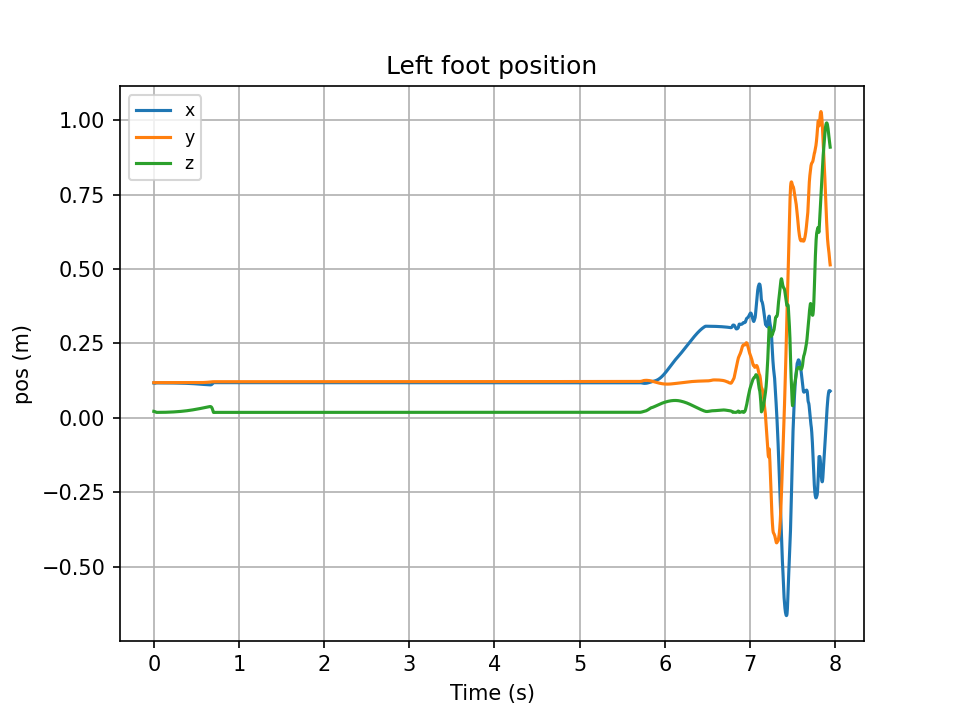
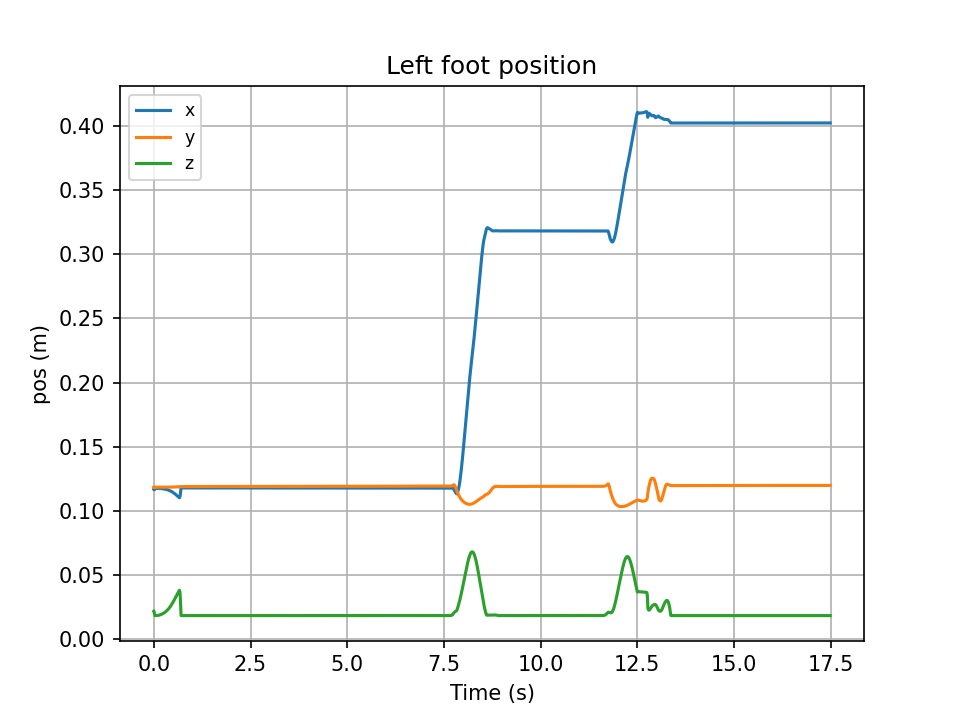
Perturbacion del paper & replan a medias

diff --git a/simulator/pybullet/g1_main.py b/simulator/pybullet/g1_main.py
@@ -1,4 +1,4 @@
-# sim_main.py
+# ===== Imports basicos =====
 import os
 import sys
 import shutil
@@ -7,8 +7,13 @@ import pybullet as pb
 import cv2
 import pinocchio as pin
 import yaml
+import time
 
-# Rutas (para pybind y utilidades del proyecto)
+# ===== Automatización de las pruebas =====
+from pynput.keyboard import Controller
+keyboard = Controller()
+
+# ===== Rutas (para pybind y utilidades del proyecto) =====
 cwd = os.getcwd()
 sys.path.extend([cwd, cwd + "/build/lib"])
 urdf_path = cwd + "/robot_model/g1/g1_29dof_lock_waist.urdf"
@@ -17,12 +22,11 @@ from config.g1.sim.pybullet.ihwbc.pybullet_params import Config
 from util.python_utils import pybullet_util
 import g1_interface_py
 
-# ===== Import del coeficiente de rozamiento
+# ===== Import del coeficiente de rozamiento =====
 yaml_path = cwd + "/config/g1/sim/pybullet/ihwbc/pnc.yaml"
 with open(yaml_path, 'r') as f:
     config_yaml = yaml.safe_load(f)
 mu_ = config_yaml["wbc"]["contact"]["mu"]
-mu_ = 0.5
 
 # ===== Segmentación del main =====
 from g1_files.sensors import get_sensor_data_from_pybullet, compute_base_joint_debug
@@ -40,10 +44,10 @@ from g1_files.forces_to_world import group_tripod
 # ====== Plots (se generan en Ctrl+C) ======
 from g1_files.plots import make_plots
 
-# Aplicación de fuerzas externas transitorias
+# ===== Aplicación de fuerzas externas transitorias =====
 from g1_files.external_forces import apply_external_forces
 
-# Mirar el uso de actuadores
+# ===== Mirar el uso de actuadores =====
 from g1_files.printTorques import printTorques, plotTorques
 flag_torque_limit = False
 
@@ -195,6 +199,8 @@ def main():
         on_exit=finalize  
     )
 
+    test_ = False
+
     # ====== Bucle principal ======
     while count*dt < Config.endSimulation or not Config.endSimulation:
         # --- Depuración: estados "ground truth" del base joint ---
@@ -279,6 +285,14 @@ def main():
         tau_ext = get_tau_ext(dt, model, data, q_pin, v_pin, tau_c, tau_j)
 
         #print(f"{tau_ext[:6]}")
+
+        if not test_ and count*dt > 4:
+            print("Fuerza aplicando")
+            test_ = True
+            print("Iniciando caminata")
+            time.sleep(0.01)
+            keyboard.type('8')
+
 
         # --- Solver de fuerzas en las piernas
         if not count % Config.solver_frequency:

diff --git a/controller/g1_controller/g1_state_machines/contact_transition_start.cpp b/controller/g1_controller/g1_state_machines/contact_transition_start.cpp
@@ -28,6 +28,10 @@ ContactTransitionStart::ContactTransitionStart(
   sp_ = G1StateProvider::GetStateProvider();
 }
 
+bool ContactTransitionStart::ShouldReplan(){
+  return false;
+}
+
 void ContactTransitionStart::FirstVisit() {
   state_machine_start_time_ = sp_->current_time_;
 
@@ -124,9 +128,34 @@ void ContactTransitionStart::FirstVisit() {
           std::to_string(sp_->planning_id_));
       sp_->planning_id_ += 1;
     } else {
-      // TODO: replanning
-      // TODO: consider torso ang vel
+      // TODO: consider torso ang vel. EStamos considerando el replan, que podrá funcionar o no. Ahora vemos
       int transfer_type = dcm_transfer_type::kMidStep;
+      replanning_ = ShouldReplan(); // decide si se debería replanear el paso en función de las fuerzas que estamos viendo
+
+      if (replanning_){
+        
+        Eigen::Vector3d current_dcm_pos = Eigen::Vector3d::Zero();
+        current_dcm_pos << sp_-> dcm_;
+
+        Eigen::Vector3d current_dcm_vel = Eigen::Vector3d::Zero();
+        current_dcm_vel << sp_-> dcm_vel_;
+
+        std::cout << "[Replan] Initializing from current state." << std::endl;
+        std::cout << "  Current DCM Pos: " << current_dcm_pos.transpose() << std::endl;
+        std::cout << "  Current DCM Vel: " << current_dcm_vel.transpose() << std::endl;
+
+        Eigen::Quaterniond torso_quat(robot_->GetLinkIsometry(g1_link::torso_com_link).linear());
+
+        ctrl_arch_->dcm_tm_->Initialize(
+            sp_->current_time_, dcm_transfer_type::kMidStep, torso_quat,
+            current_dcm_pos, current_dcm_vel);
+
+        ctrl_arch_->dcm_tm_->GetDCMPlanner()->SaveSolution(
+            std::to_string(sp_->planning_id_)); // namas guarda el indice del archivo de replaneo que utiliza
+        sp_->planning_id_ += 1;
+      }
+      
+
       // ctrl_arch_->dcm_tm_->Initialize(
       // sp_->current_time_, dcm_transfer_type::kMidStep, init_torso_quat,
       // init_dcm_pos, init_dcm_vel);

diff --git a/planner/locomotion/dcm_planner/dcm_planner.cpp b/planner/locomotion/dcm_planner/dcm_planner.cpp
@@ -458,12 +458,12 @@ Eigen::Vector3d DCMPlanner::GetRefDCM(const double t_global) const {
   if (t <= _GetDoubleSupportEndTime(step_idx)) {
     // use polynomial interpolation
     local_time = t - _GetDoubleSupportStartTime(step_idx);
-    return _GetDCMDoubleSupportPoly(step_idx, local_time);
+    return _GetDCMDoubleSupportPoly(step_idx, local_time) + offset_;
     // return _GetDCMDoubleSupportMinJerk(step_idx, local_time);
   } else {
     // use exponential interpolation
     local_time = t - _GetTimeStepStart(step_idx);
-    return _GetDCMExponential(step_idx, local_time);
+    return _GetDCMExponential(step_idx, local_time) + offset_;
   }
 }
 Eigen::Vector3d DCMPlanner::GetRefDCMVel(const double t_global) const {

diff --git a/planner/locomotion/dcm_planner/dcm_planner.hpp b/planner/locomotion/dcm_planner/dcm_planner.hpp
@@ -107,12 +107,15 @@ public:
 
 protected:
   // setter related variables
-  double mass_ = 40;
+  double mass_ = 35.1;
   double gravity_ = 9.81;
   double z_vrp_ = 0.65;
   double b_ = std::sqrt(z_vrp_ / gravity_);
   double t_start_ = 0.;
   Eigen::Quaterniond init_pelvis_quat_ = Eigen::Quaterniond::Identity();
+
+  double offset_verga = b_ * b_ * 20 /mass_;
+  Eigen::Vector3d offset_ = Eigen::Vector3d(offset_verga, 0.0, 0.0);
 
   // -----------------------------------------------------
   std::vector<FootStep> foot_step_list_;

diff --git a/planner/locomotion/dcm_planner/foot_step.cpp b/planner/locomotion/dcm_planner/foot_step.cpp
@@ -31,7 +31,7 @@ void FootStep::PrintInfo() {
   std::cout << "ori = " << quat_ori_.coeffs().transpose() << std::endl;
 }
 
-std::vector<FootStep> FootStep::GetFwdWalkFootStep(
+std::vector<FootStep> FootStep::GetFwdWalkFootStep(            // Aquí se calculan las posiciones de los pasos, pero no tiene nada que ver con el DCM planner. 
     const int n_steps, const double forward_step_length,
     const double nominal_footwidth, const int first_swing_leg,
     const FootStep &current_mid_foot) {

diff --git a/config/g1/sim/pybullet/ihwbc/pybullet_params.py b/config/g1/sim/pybullet/ihwbc/pybullet_params.py
@@ -5,7 +5,7 @@ class Config(object):
 
     # Victor's params
     v_water = 0.0
-    endSimulation = 15
+    endSimulation = 208
 
     # Observer
     observerActive = True
@@ -22,7 +22,7 @@ class Config(object):
     right_ids = []
     pelvis_ids = [-1]
 
-    link_idx_vec = [-1]
+    link_idx_vec = [-1] # Este man tiene que coincidir cn la segmentacion que se haga de left-right-pelvis
 
     
     MAX_SIMULATION_TIME = 5.0  # seconds

diff --git a/controller/g1_controller/g1_state_machines/contact_transition_start.hpp b/controller/g1_controller/g1_state_machines/contact_transition_start.hpp
@@ -20,6 +20,8 @@ public:
 
   void SetParameters(const YAML::Node &node) override;
 
+  bool ShouldReplan();
+
 private:
   G1ControlArchitecture *ctrl_arch_;
 
@@ -29,4 +31,6 @@ private:
   bool b_use_fixed_foot_pos_;
   Eigen::Isometry3d nominal_lfoot_iso_;
   Eigen::Isometry3d nominal_rfoot_iso_;
+
+  bool replanning_{false};
 };

diff --git a/simulator/pybullet/g1_files/external_forces.py b/simulator/pybullet/g1_files/external_forces.py
@@ -4,9 +4,9 @@ import pybullet as pb
 
 def apply_external_forces(robot, t):
 
-    if t > 3:
+    if t > 2:
 
-        pb.applyExternalForce(robot, -1, [0, 0.0, 0.0], [0.0, 0.0, 0.0], pb.WORLD_FRAME)
+        pb.applyExternalForce(robot, -1, [-20, 0.0, 0.0], [0.0, 0.0, 0.0], pb.WORLD_FRAME)
 
     return
     
